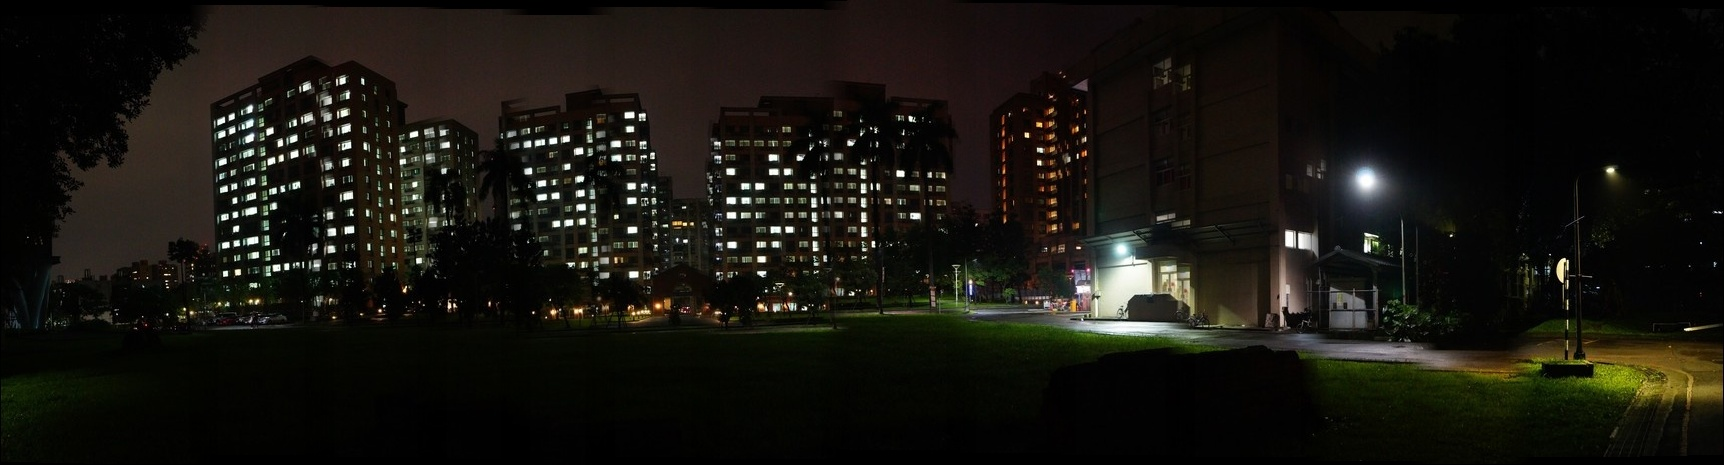
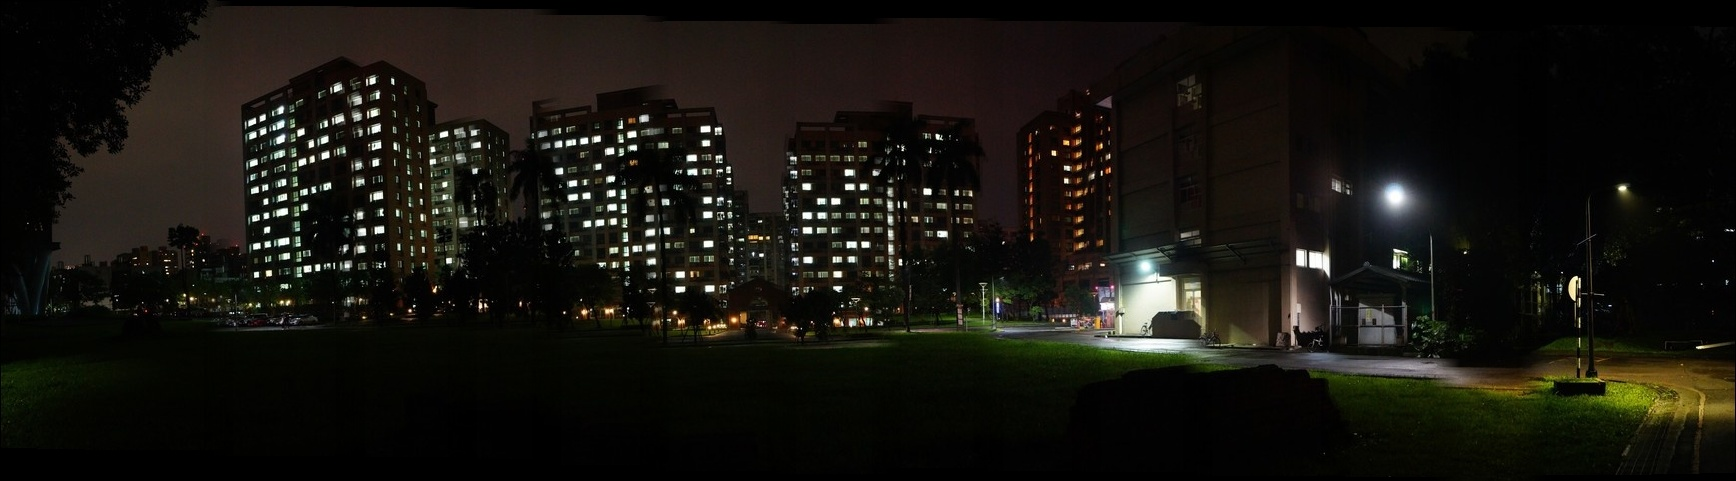
Fri Apr 26 22:11:31 CST 2019 new result after new matching method

diff --git a/project2_panorama/src/siftmatch.py b/project2_panorama/src/siftmatch.py
@@ -3,8 +3,49 @@ import cv2
 import itertools
 import math
 
-def sift_matching(templatename, imagename, kpt,dt,kpi,di, cutoff):
+def sift_matching_BT(templatename, imagename, kpt,dt,kpi,di, cutoff):
+    # cutoff around 0.5
+    #print 'dt',len(dt[0]),len(dt) #128 dim feature discriptor
+    #print 'di',len(di[0]),len(di) #128 dim feature discriptor
+    img = cv2.imread(imagename)
+    template = cv2.imread(templatename)
+    height, width =  img.shape[:2]
 
+    # brute force soultion, pick 2-norm distance minimum as a pair
+    dis_list = [] # index is templete's index, content is [dis, image's index]
+    for last_feature in dt:
+        min_dis = float("inf")
+        min_idx = 0 # is image's index
+        for i,now_feature in enumerate(di):
+            dis = math.sqrt(np.sum((np.array(last_feature) - np.array(now_feature))**2))
+            if dis < min_dis: min_dis, min_idx = dis, i
+        dis_list.append([min_dis,min_idx])
+
+    # filter dis is too large
+    matched_pairs = []
+    for i,dis in enumerate(dis_list):
+        if dis[0] < cutoff:
+            matched_pairs.append([kpt[i][:2], kpi[dis[1]][:2]])
+
+    # if scanning view from left turn to right
+    # filter x is positive and y out of range
+    refined_matched_pairs = []
+    matched_x_max_thres = width - width/5
+    matched_x_min_thres = width/5
+    matched_y_abs_thres = height/20
+    for matched_pair in matched_pairs:
+        distance_x = matched_pair[0][1] - matched_pair[1][1]
+        distance_y = abs(matched_pair[0][0] - matched_pair[1][0])
+        if distance_y<matched_y_abs_thres and distance_x < matched_x_max_thres and distance_x > matched_x_min_thres:
+            refined_matched_pairs.append(
+            [ [int(matched_pair[0][1]),int(matched_pair[0][0])],
+            [int(matched_pair[1][1]),int(matched_pair[1][0])] ])
+    print refined_matched_pairs
+    return refined_matched_pairs
+
+
+def sift_matching(templatename, imagename, kpt,dt,kpi,di, cutoff):
+    # cutoff around 0.0003
     img = cv2.imread(imagename)
     template = cv2.imread(templatename)
     height, width =  img.shape[:2]

diff --git a/project2_panorama/src/main.py b/project2_panorama/src/main.py
@@ -7,7 +7,7 @@ import multiprocessing as mp
 
 import warpToCylinder as wtc
 from siftdetector import sift_detector
-from siftmatch import sift_matching
+from siftmatch import sift_matching_BT
 import stitch
 import constant as const
 
@@ -34,7 +34,7 @@ if __name__ == '__main__':
     shifts = [[0,0]] #every shift between two nearby images
     feature_cache = [[], []] #store last image feature
     sift_threshold = 5
-    sift_cutoff = 0.0003
+    sift_cutoff = 0.5#0.0003
 
     #stiching from left to right
     for i in range(1, image_set_size):
@@ -58,7 +58,7 @@ if __name__ == '__main__':
 
 
         print ' | Feature matching .... '; sys.stdout.flush()
-        matched_pairs = sift_matching(img1, img2 , keypints1, descriptors1, keypints2, descriptors2, sift_cutoff)
+        matched_pairs = sift_matching_BT(img1, img2 , keypints1, descriptors1, keypints2, descriptors2, sift_cutoff)
         print ' | | ' + str(len(matched_pairs)) + ' features matched.'; sys.stdout.flush()
 
         print ' | Find best shift using RANSAC .... '; sys.stdout.flush()
@@ -71,6 +71,7 @@ if __name__ == '__main__':
     print 'Stitching image .... '; sys.stdout.flush()
     stitched_image = stitch.stitching_w_blending(shifts, image_set_size, height, width)
     print ' | Saved as final.jpg'; sys.stdout.flush()
+
     '''
     print 'Perform end to end alignment'; sys.stdout.flush()
     aligned = stitch.end2end_align(stitched_image, shifts)

diff --git a/project2_panorama/src/stitch.py b/project2_panorama/src/stitch.py
@@ -65,6 +65,7 @@ Returns:
     A stitched image
 """
 def stitching_wo_blending(shift_list, image_set_size, height, width):
+    # shift_list w/o initail [0,0]
     img_list = []
     for i in range(image_set_size):
         img = Image.open(str(i)+'.jpg') # size = 450x300
@@ -92,13 +93,13 @@ def stitching_wo_blending(shift_list, image_set_size, height, width):
         for shift in shift_set[:len(img_list)-i]: shift_sum+=shift
         _,shift_y_accumulation = shift_sum
         new_im.paste(img, (abs(shift_x_accumulation),abs(shift_y_min)+shift_y_accumulation))
-        print abs(shift_x_accumulation) , abs(shift_y_min)+shift_y_accumulation
     new_im.show()
     new_im.save('final.jpg')
     return 0
 
 
 def stitching_w_blending(shift_list, image_set_size, height, width):
+    # shift_list w/ initail [0,0]
     shift_set = np.array(shift_list)
     img_list = []
     for i in range(image_set_size):
@@ -129,8 +130,8 @@ def stitching_w_blending(shift_list, image_set_size, height, width):
     print shift_acc, len(shift_acc)
 
     new_img = np.zeros( (height+abs(shift_y_min)+abs(shift_y_max), width+abs(shift_x),3),dtype=np.uint8)
-    print new_img.shape # (481,1723,3)
     new_h, new_w  = new_img.shape[:2]
+    print new_img.shape # (481,1723,3)
 
     left_br_x, right_br_x = 0, 0  #boundoury
     for img_num,img in enumerate(img_list):
